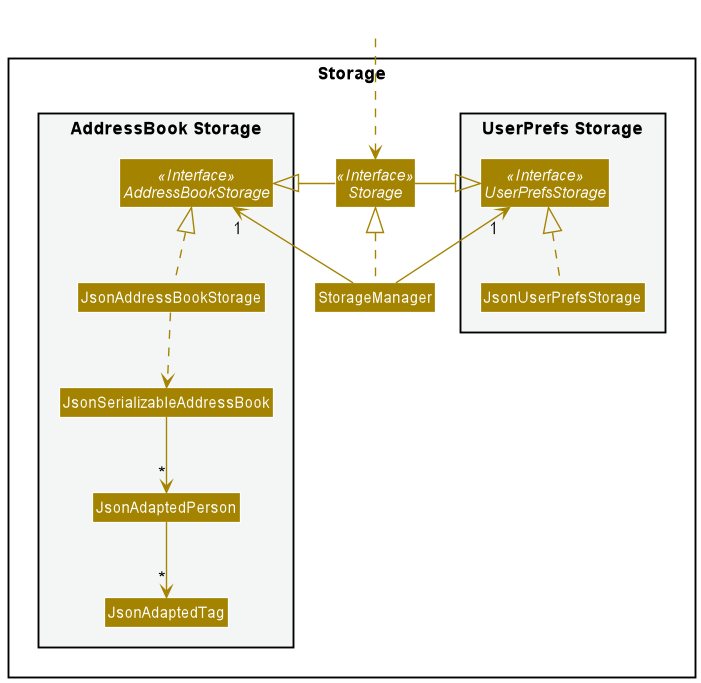
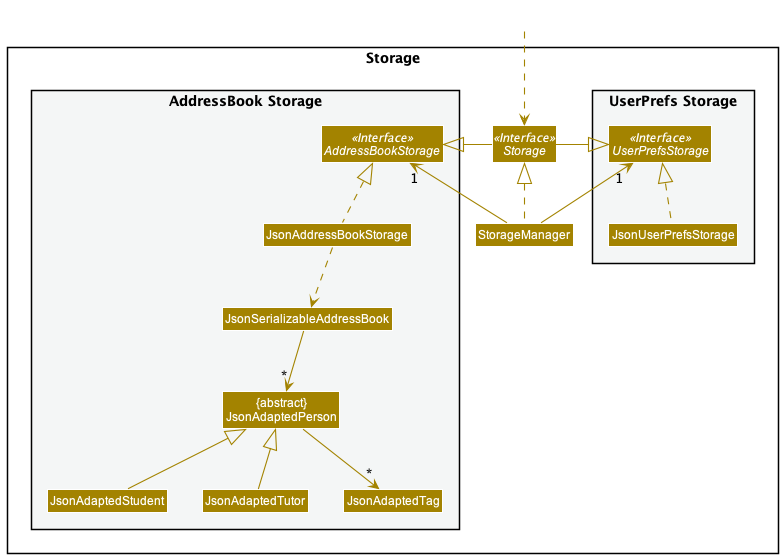
Update Storage component in the Design segment

Changed region(s): [[0.0, 0.0609, 1.0, 1.0], [0.3894, 0.3351, 0.4194, 0.3656]]

diff --git a/docs/DeveloperGuide.md b/docs/DeveloperGuide.md
@@ -68,8 +68,18 @@ The `UI` component,
 ### Model component
 
 ### Storage component
+**API** : [`Storage.java`](https://github.com/AY2122S1-CS2103T-T17-2/tp/blob/master/src/main/java/seedu/address/storage/Storage.java)
+
+![Insert class diagram for Storage component](images/StorageClassDiagram.png)
+
+The `Storage` component,
+* can save both address book data and user preference data in json format, and read them back into corresponding objects.
+* inherits from both `AddressBookStorage` and `UserPrefStorage`, which means it can be treated as either one (if only the functionality of only one is needed).
+* depends on some classes in the `Model` component (because the `Storage` component's job is to save/retrieve objects that belong to the `Model`)
 
 ### Common classes
+
+Classes used by multiple components are in the `seedu.addressbook.commons` package.
 
 
 ## **Implementation**
